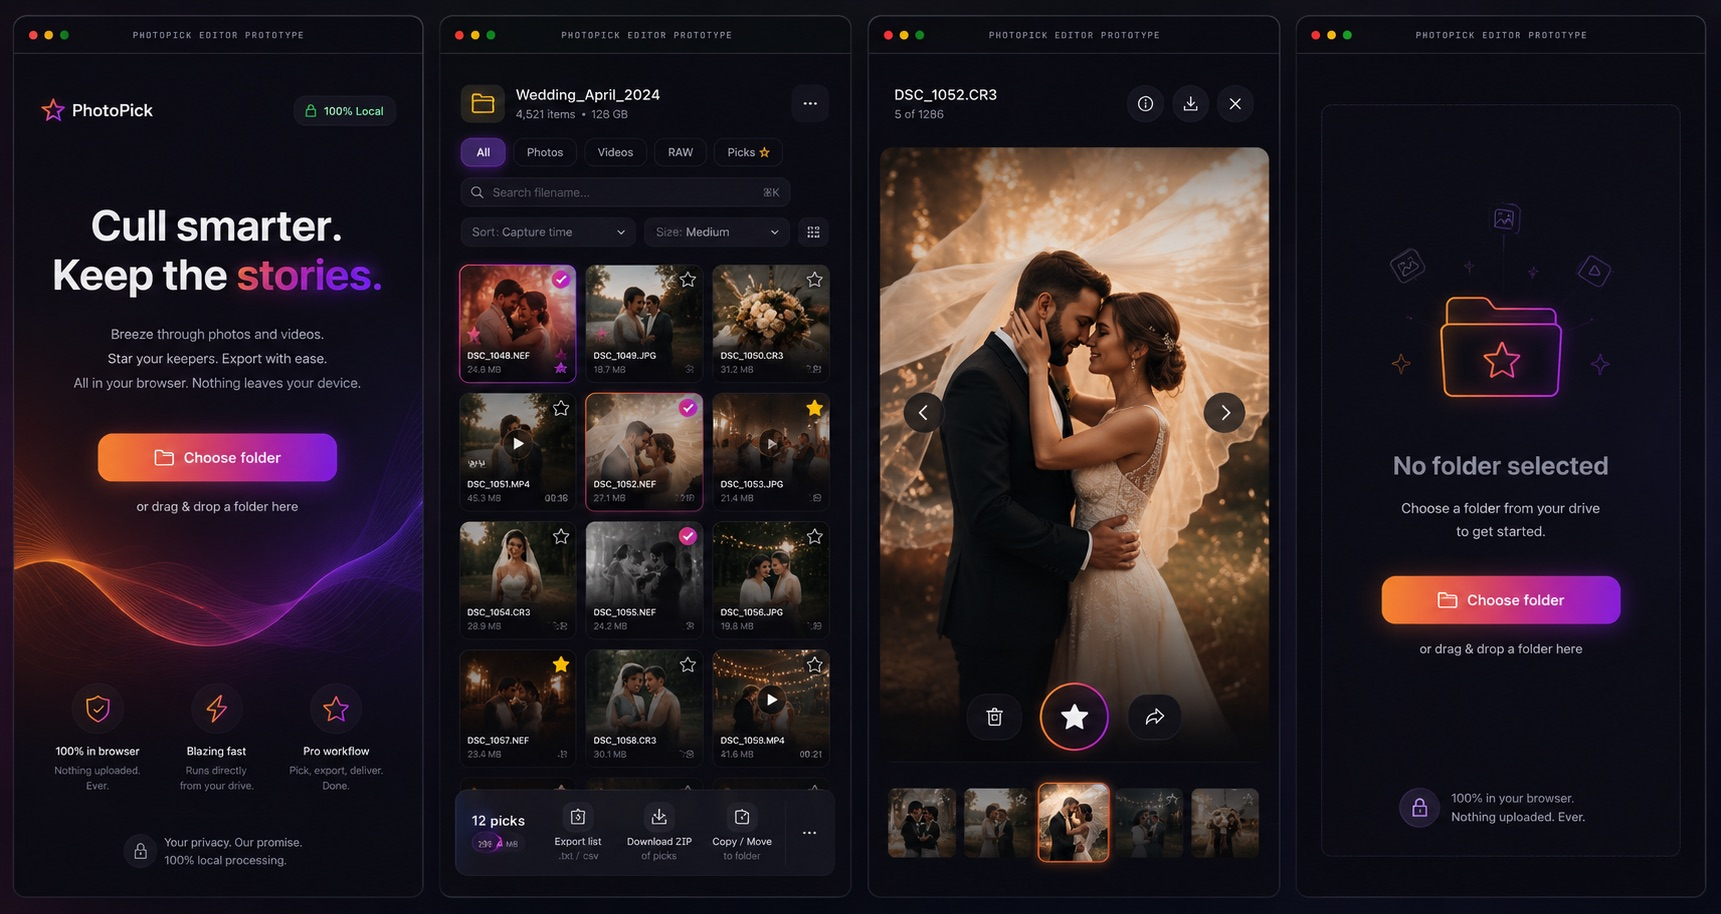
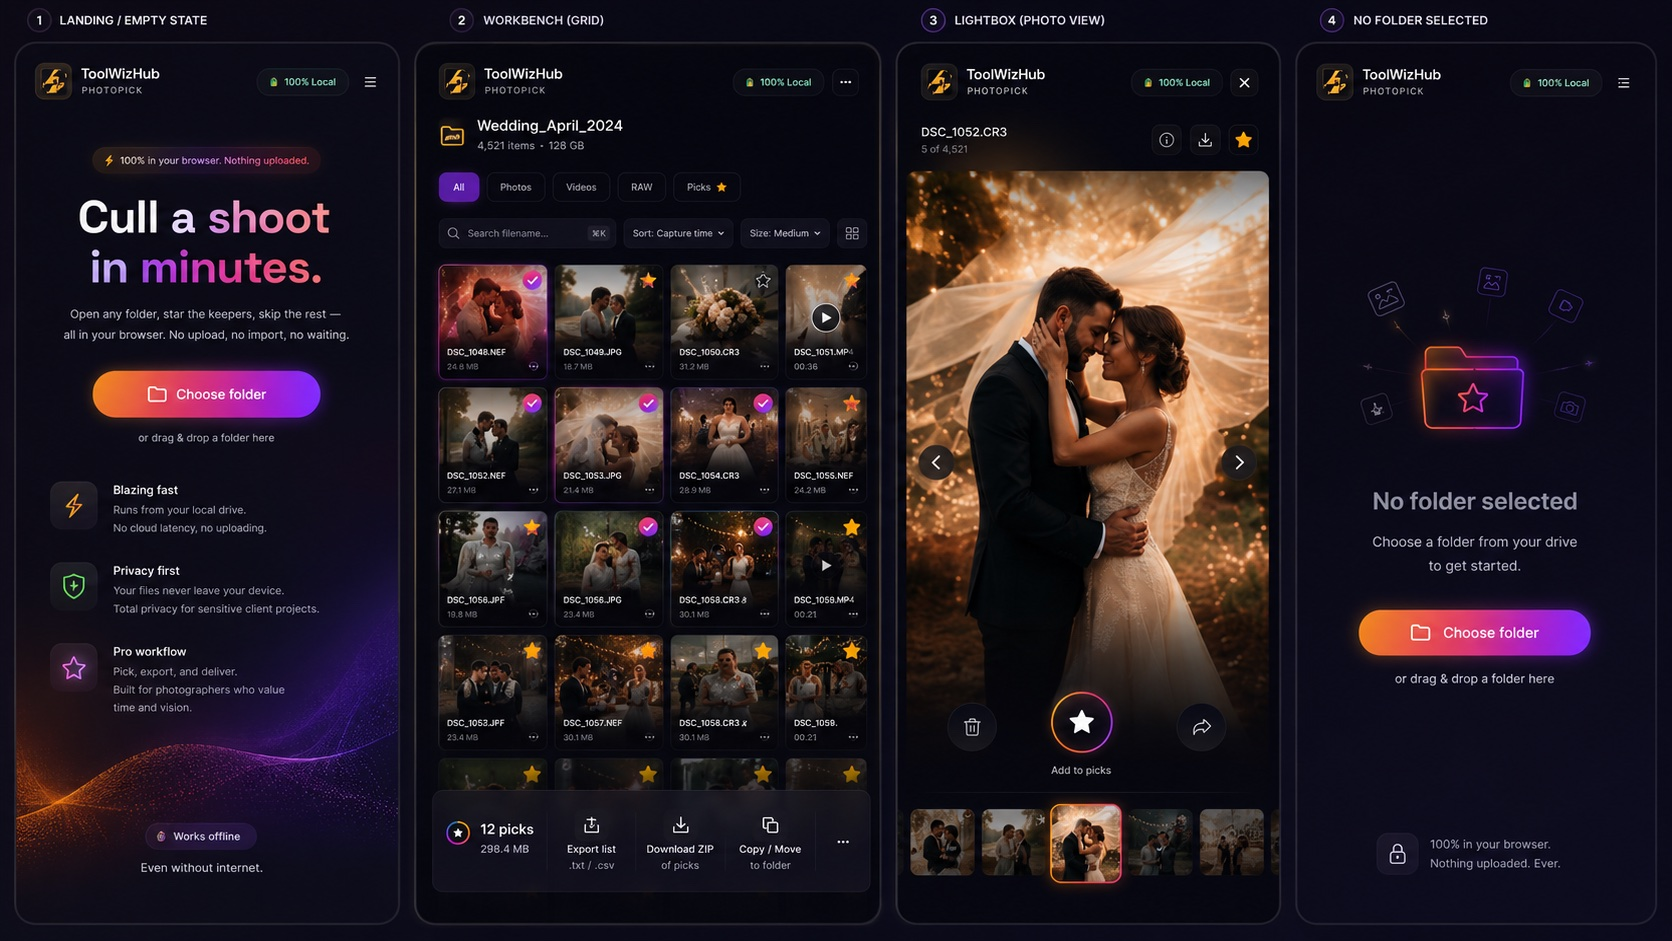
feat: richer home page — how-it-works, capabilities, formats, FAQ, CTA, GitHub links, hero tagline, new preview

diff --git a/index.html b/index.html
@@ -33,7 +33,7 @@
   <link rel="preconnect" href="https://fonts.googleapis.com" />
   <link rel="preconnect" href="https://fonts.gstatic.com" crossorigin />
   <link href="https://fonts.googleapis.com/css2?family=Inter:wght@400;500;600;700&family=Space+Grotesk:wght@500;600;700&family=JetBrains+Mono:wght@500;600;700&display=swap" rel="stylesheet" />
-  <link rel="stylesheet" href="css/styles.css?v=20260704m" />
+  <link rel="stylesheet" href="css/styles.css?v=20260704r" />
   <script>try { if (sessionStorage.getItem("photopick:splashed")) document.documentElement.classList.add("no-splash"); } catch (e) {}</script>
 </head>
 <body>
@@ -59,6 +59,9 @@
         <a class="nav__link" href="#how">How it works</a>
         <a class="nav__link" href="#security">Security</a>
         <span class="nav__pill">🔒 100% Local</span>
+        <a class="nav__icon" href="https://github.com/sorapallivenkatesh/toolwizhub-photopick" target="_blank" rel="noopener" title="View on GitHub" aria-label="View on GitHub">
+          <svg viewBox="0 0 24 24" width="18" height="18" fill="currentColor"><path d="M12 .5C5.37.5 0 5.87 0 12.5c0 5.3 3.44 9.8 8.21 11.39.6.11.82-.26.82-.58l-.01-2.05c-3.34.73-4.04-1.61-4.04-1.61-.55-1.39-1.34-1.76-1.34-1.76-1.09-.75.08-.73.08-.73 1.2.09 1.84 1.24 1.84 1.24 1.07 1.83 2.81 1.3 3.5.99.11-.78.42-1.3.76-1.6-2.67-.3-5.47-1.33-5.47-5.93 0-1.31.47-2.38 1.24-3.22-.13-.3-.54-1.52.11-3.18 0 0 1.01-.32 3.3 1.23a11.5 11.5 0 0 1 6 0c2.29-1.55 3.3-1.23 3.3-1.23.65 1.66.24 2.88.12 3.18.77.84 1.23 1.91 1.23 3.22 0 4.61-2.81 5.62-5.49 5.92.43.37.81 1.1.81 2.22l-.01 3.29c0 .32.21.7.82.58A12.01 12.01 0 0 0 24 12.5C24 5.87 18.63.5 12 .5z"/></svg>
+        </a>
       </nav>
     </header>
 
@@ -71,6 +74,7 @@
     <!-- ===== LANDING / WELCOME ===== -->
     <section id="picker">
       <section class="hero">
+        <span class="hero__eyebrow">✦ Find your best shots, fast.</span>
         <h1 class="hero__title">Cull a <span class="grad grad--warm">shoot</span><br>in <span class="grad grad--cool">minutes.</span></h1>
         <p class="hero__sub">Open any folder, star the keepers, skip the rest — all in your browser. No upload, no import, no waiting.</p>
         <div class="hero__cta">
@@ -103,8 +107,67 @@
       </section>
 
       <!-- product preview -->
-      <section class="preview" id="how">
-        <img class="preview__img" src="assets/preview.jpg?v=20260704m" alt="PhotoPick screens — welcome, gallery grid, lightbox, and empty state" width="1721" height="914" loading="lazy" />
+      <section class="preview">
+        <img class="preview__img" src="assets/preview.jpg?v=20260704r" alt="PhotoPick screens — landing, workbench grid, lightbox, and empty state" width="1672" height="941" loading="lazy" />
+      </section>
+
+      <!-- how it works -->
+      <section class="band" id="how">
+        <div class="band__head">
+          <span class="eyebrow">How it works</span>
+          <h2 class="band__title">Three steps. No import, no waiting.</h2>
+          <p class="band__sub">From memory card to shortlist in the time it used to take just to import.</p>
+        </div>
+        <div class="steps">
+          <div class="step"><span class="step__n">1</span><h3>Open a folder</h3><p>Point PhotoPick at any folder — an SD card, external drive, or your machine. It reads it locally, right in your browser.</p></div>
+          <div class="step"><span class="step__n">2</span><h3>Star your keepers</h3><p>Scroll the grid or open the lightbox and tap ★ (or press <kbd>S</kbd>) on the shots worth keeping. Filter by photos, video, RAW, or picks.</p></div>
+          <div class="step"><span class="step__n">3</span><h3>Export or deliver</h3><p>Save a filename list, download the picks as a ZIP, or copy &amp; move them straight into a new folder — all on your device.</p></div>
+        </div>
+      </section>
+
+      <!-- capabilities -->
+      <section class="band">
+        <div class="band__head">
+          <span class="eyebrow">Built for real shoots</span>
+          <h2 class="band__title">Everything you need to <span class="grad grad--warm">cull</span>, nothing you don’t.</h2>
+        </div>
+        <div class="caps">
+          <div class="cap"><span class="cap__ico">🖼️</span><h4>RAW &amp; HEIC previews</h4><p>Renders embedded previews from CR2/CR3, NEF, ARW, DNG and more — plus HEIC/HEIF decoded in-browser.</p></div>
+          <div class="cap"><span class="cap__ico">🎬</span><h4>Video thumbnails</h4><p>Grabs a frame from MP4, MOV, MKV and other clips so your video takes sit right beside the stills.</p></div>
+          <div class="cap"><span class="cap__ico">⚡</span><h4>Instant filter &amp; sort</h4><p>Jump between photos, video, RAW and picks; sort by capture time, name, size or date. Search by filename.</p></div>
+          <div class="cap"><span class="cap__ico">🔍</span><h4>Zoom &amp; inspect</h4><p>Pinch, scroll or double-click to zoom into the lightbox and check focus — with full EXIF on the side.</p></div>
+          <div class="cap"><span class="cap__ico">⌨️</span><h4>Keyboard-first</h4><p>Arrow through the grid, <kbd>Space</kbd>/<kbd>S</kbd> to pick, <kbd>Enter</kbd> to open, <kbd>+</kbd>/<kbd>−</kbd> to zoom. Cull without the mouse.</p></div>
+          <div class="cap"><span class="cap__ico">📦</span><h4>Export your way</h4><p>Filename list (.txt/.csv), a zipped bundle of picks, or a direct copy/move into a delivery folder.</p></div>
+        </div>
+      </section>
+
+      <!-- supported formats -->
+      <section class="band formats">
+        <div class="band__head">
+          <span class="eyebrow">Formats</span>
+          <h2 class="band__title">Opens what your camera shoots.</h2>
+        </div>
+        <div class="fmt">
+          <div class="fmt__row"><b>Photos</b><span>JPEG · PNG · WebP · HEIC · HEIF · TIFF · AVIF · GIF</span></div>
+          <div class="fmt__row"><b>RAW</b><span>CR2 · CR3 · NEF · ARW · DNG · RAF · ORF · RW2 · PEF · 3FR · SRW …</span></div>
+          <div class="fmt__row"><b>Video</b><span>MP4 · MOV · MKV · AVI · M4V · WebM · MTS · 3GP …</span></div>
+        </div>
+      </section>
+
+      <!-- FAQ -->
+      <section class="band" id="faq">
+        <div class="band__head">
+          <span class="eyebrow">FAQ</span>
+          <h2 class="band__title">Good questions.</h2>
+        </div>
+        <div class="faq">
+          <details class="faq__q"><summary>Is my data really private?</summary><p>Yes. PhotoPick is 100% client-side — there’s no server to send anything to. Your photos, filenames and picks never leave your device. <a href="/privacy/">Read the details →</a></p></details>
+          <details class="faq__q"><summary>Does it work offline?</summary><p>Once the page has loaded it needs no network. Browsing, starring, zipping and copy/move all happen locally, drive-to-drive.</p></details>
+          <details class="faq__q"><summary>Which browsers are supported?</summary><p>Any modern browser can browse and export. Copying or moving files into a folder uses the File System Access API (Chrome, Edge, Brave, Opera); elsewhere you get the same result via “Download picks (.zip).”</p></details>
+          <details class="faq__q"><summary>Will it change my original files?</summary><p>Never, unless you explicitly choose <b>Move</b> — the one action that deletes originals, and only after they’re safely copied and you’ve confirmed. Everything else is read-only.</p></details>
+          <details class="faq__q"><summary>How many photos can it handle?</summary><p>A single shoot of a few thousand files is smooth. Very large libraries (tens of thousands in one folder) get heavier — point it at an event folder rather than a whole archive.</p></details>
+          <details class="faq__q"><summary>Is it free?</summary><p>Completely. No account, no sign-up, no limits — it’s part of the free <a href="https://toolwizhub.com" target="_blank" rel="noopener">ToolWizHub</a> toolkit, and it’s <a href="https://github.com/sorapallivenkatesh/toolwizhub-photopick" target="_blank" rel="noopener">open source on GitHub</a>. Spot a bug? <a href="https://github.com/sorapallivenkatesh/toolwizhub-photopick/issues" target="_blank" rel="noopener">Open an issue</a>.</p></details>
+        </div>
       </section>
 
       <!-- security / privacy -->
@@ -123,6 +186,19 @@
         <a class="security__link" href="/privacy/">Read the full privacy &amp; security details
           <svg viewBox="0 0 24 24" width="15" height="15" fill="none" stroke="currentColor" stroke-width="2" stroke-linecap="round" stroke-linejoin="round"><line x1="5" y1="12" x2="19" y2="12"/><polyline points="12 5 19 12 12 19"/></svg>
         </a>
+      </section>
+
+      <!-- closing CTA -->
+      <section class="cta">
+        <div class="cta__card">
+          <h2 class="cta__title">Ready to <span class="grad grad--cool">cull your shoot?</span></h2>
+          <p class="cta__sub">Open a folder and start starring — nothing to install, nothing to upload.</p>
+          <button class="btn btn--primary btn--lg" id="pick-btn-2">
+            <svg viewBox="0 0 24 24" width="18" height="18" fill="none" stroke="currentColor" stroke-width="2" stroke-linecap="round" stroke-linejoin="round"><path d="M3 7a2 2 0 0 1 2-2h4l2 2h8a2 2 0 0 1 2 2v8a2 2 0 0 1-2 2H5a2 2 0 0 1-2-2z"/></svg>
+            Choose folder
+          </button>
+          <p class="cta__note">🔒 100% in your browser · free · no account</p>
+        </div>
       </section>
     </section>
 
@@ -251,9 +327,17 @@
       <span>More free tools at</span>
       <img src="assets/logo-horizontal.webp" alt="ToolWizHub" />
     </a>
-    <span class="app-footer__copy">© <span id="year">2026</span> ToolWizHub · <a href="/privacy/">Privacy</a> · 100% local, no tracking.</span>
+    <nav class="app-footer__links">
+      <a href="https://github.com/sorapallivenkatesh/toolwizhub-photopick" target="_blank" rel="noopener" class="app-footer__gh">
+        <svg viewBox="0 0 24 24" width="16" height="16" fill="currentColor"><path d="M12 .5C5.37.5 0 5.87 0 12.5c0 5.3 3.44 9.8 8.21 11.39.6.11.82-.26.82-.58l-.01-2.05c-3.34.73-4.04-1.61-4.04-1.61-.55-1.39-1.34-1.76-1.34-1.76-1.09-.75.08-.73.08-.73 1.2.09 1.84 1.24 1.84 1.24 1.07 1.83 2.81 1.3 3.5.99.11-.78.42-1.3.76-1.6-2.67-.3-5.47-1.33-5.47-5.93 0-1.31.47-2.38 1.24-3.22-.13-.3-.54-1.52.11-3.18 0 0 1.01-.32 3.3 1.23a11.5 11.5 0 0 1 6 0c2.29-1.55 3.3-1.23 3.3-1.23.65 1.66.24 2.88.12 3.18.77.84 1.23 1.91 1.23 3.22 0 4.61-2.81 5.62-5.49 5.92.43.37.81 1.1.81 2.22l-.01 3.29c0 .32.21.7.82.58A12.01 12.01 0 0 0 24 12.5C24 5.87 18.63.5 12 .5z"/></svg>
+        GitHub
+      </a>
+      <a href="https://github.com/sorapallivenkatesh/toolwizhub-photopick/issues" target="_blank" rel="noopener">Report an issue</a>
+      <a href="/privacy/">Privacy</a>
+    </nav>
+    <span class="app-footer__copy">© <span id="year">2026</span> ToolWizHub · 100% local, no tracking.</span>
   </footer>
 
-  <script type="module" src="js/app.js?v=20260704m"></script>
+  <script type="module" src="js/app.js?v=20260704r"></script>
 </body>
 </html>

diff --git a/css/styles.css b/css/styles.css
@@ -84,7 +84,8 @@ button, select, input, textarea { font-family: inherit; }
 /* ===== hero ===== */
 .grad--warm { background: linear-gradient(100deg, #a78bfa, #d946ef); -webkit-background-clip: text; background-clip: text; color: transparent; }
 .grad--cool { background: linear-gradient(100deg, #d946ef, #ec4899 60%, #fb7185); -webkit-background-clip: text; background-clip: text; color: transparent; }
-.hero { text-align: center; padding: clamp(30px,6vw,80px) 0 20px; position: relative; }
+.hero { text-align: center; padding: clamp(24px,5vw,60px) 0 20px; position: relative; }
+.hero__eyebrow { display: inline-flex; align-items: center; gap: 8px; font: 600 13px var(--sans); color: #d8c7ff; padding: 7px 16px; border-radius: var(--r-pill); background: rgba(139,92,246,.12); border: 1px solid rgba(139,92,246,.3); margin-bottom: 24px; }
 .hero::before { content: ""; position: absolute; inset: -10% -20% 30%; z-index: -1; pointer-events: none;
   background: radial-gradient(50% 60% at 24% 40%, rgba(139,92,246,.18), transparent 70%),
     radial-gradient(50% 60% at 80% 45%, rgba(236,72,153,.2), transparent 70%); }
@@ -110,6 +111,61 @@ button, select, input, textarea { font-family: inherit; }
 .preview { max-width: 1120px; margin: 60px auto 20px; }
 .preview__img { display: block; width: 100%; height: auto; border-radius: 18px; border: 1px solid var(--line-strong);
   box-shadow: 0 40px 90px rgba(0,0,0,.55), 0 0 0 1px rgba(139,92,246,.08); }
+
+/* ===== content bands (how it works, capabilities, formats, faq) ===== */
+.band { max-width: 1080px; margin: 88px auto 0; }
+.band__head { text-align: center; max-width: 680px; margin: 0 auto 40px; }
+.eyebrow { display: inline-block; font: 600 11px var(--mono); letter-spacing: .2em; text-transform: uppercase; color: #c4b5fd;
+  padding: 6px 14px; border-radius: var(--r-pill); background: rgba(139,92,246,.12); border: 1px solid rgba(139,92,246,.3); margin-bottom: 18px; }
+.band__title { font-family: var(--display); font-weight: 700; font-size: clamp(24px,3.6vw,36px); letter-spacing: -.6px; line-height: 1.12; }
+.band__sub { margin-top: 14px; color: var(--soft); font-size: clamp(14px,1.7vw,16px); }
+
+/* steps */
+.steps { display: grid; grid-template-columns: repeat(3, 1fr); gap: 18px; }
+.step { position: relative; background: var(--glass); border: 1px solid var(--line); border-radius: var(--r); padding: 26px 24px; transition: border-color .2s, transform .2s var(--ease); }
+.step:hover { border-color: var(--line-strong); transform: translateY(-3px); }
+.step__n { display: grid; place-items: center; width: 40px; height: 40px; border-radius: 12px; background: var(--grad); color: #fff; font: 700 17px var(--display); box-shadow: 0 6px 16px rgba(139,92,246,.4); margin-bottom: 16px; }
+.step h3 { font-family: var(--display); font-size: 18px; margin-bottom: 8px; }
+.step p { color: var(--muted); font-size: 14px; line-height: 1.65; }
+
+/* capabilities */
+.caps { display: grid; grid-template-columns: repeat(3, 1fr); gap: 16px; }
+.cap { background: var(--glass); border: 1px solid var(--line); border-radius: var(--r); padding: 24px 22px; transition: border-color .2s, transform .2s var(--ease); }
+.cap:hover { border-color: var(--line-strong); transform: translateY(-3px); }
+.cap__ico { display: inline-grid; place-items: center; width: 44px; height: 44px; border-radius: 12px; font-size: 20px; background: rgba(139,92,246,.14); margin-bottom: 14px; }
+.cap h4 { font-family: var(--display); font-size: 16px; margin-bottom: 7px; }
+.cap p { color: var(--muted); font-size: 13.5px; line-height: 1.6; }
+
+/* supported formats */
+.formats { max-width: 900px; }
+.fmt { display: flex; flex-direction: column; gap: 10px; }
+.fmt__row { display: flex; align-items: center; gap: 16px; background: var(--glass); border: 1px solid var(--line); border-radius: 14px; padding: 16px 20px; }
+.fmt__row b { flex: 0 0 72px; font: 600 12px var(--mono); letter-spacing: .1em; text-transform: uppercase; color: #c4b5fd; }
+.fmt__row span { color: var(--soft); font: 500 13.5px var(--mono); line-height: 1.6; }
+
+/* faq */
+.faq { max-width: 780px; margin: 0 auto; display: flex; flex-direction: column; gap: 10px; }
+.faq__q { background: var(--glass); border: 1px solid var(--line); border-radius: 14px; padding: 4px 20px; transition: border-color .2s; }
+.faq__q[open] { border-color: var(--line-strong); }
+.faq__q summary { list-style: none; cursor: pointer; padding: 16px 0; font-family: var(--display); font-weight: 600; font-size: 15.5px; color: var(--text); display: flex; align-items: center; justify-content: space-between; gap: 12px; }
+.faq__q summary::-webkit-details-marker { display: none; }
+.faq__q summary::after { content: "+"; font-family: var(--sans); font-size: 22px; font-weight: 400; color: var(--muted); transition: transform .2s var(--ease); line-height: 1; }
+.faq__q[open] summary::after { transform: rotate(45deg); color: #c4b5fd; }
+.faq__q p { color: var(--soft); font-size: 14px; line-height: 1.7; padding: 0 0 18px; margin: 0; }
+.faq__q a { color: #d8c7ff; text-decoration: underline; text-underline-offset: 3px; }
+
+/* closing CTA */
+.cta { max-width: 1080px; margin: 88px auto 20px; }
+.cta__card { position: relative; overflow: hidden; text-align: center; padding: clamp(40px,6vw,68px) 24px; border-radius: 24px; border: 1px solid var(--line-strong);
+  background: radial-gradient(120% 140% at 50% 0%, rgba(139,92,246,.22), transparent 60%), linear-gradient(180deg, rgba(20,18,32,.7), rgba(12,11,20,.7)); }
+.cta__title { font-family: var(--display); font-weight: 700; font-size: clamp(26px,4vw,42px); letter-spacing: -.6px; }
+.cta__sub { max-width: 480px; margin: 14px auto 26px; color: var(--soft); font-size: clamp(14px,1.8vw,17px); }
+.cta__note { margin-top: 15px; color: var(--muted); font-size: 13px; }
+
+kbd { font: 600 11.5px var(--mono); background: var(--glass-2); border: 1px solid var(--line-strong); border-bottom-width: 2px; border-radius: 6px; padding: 1px 6px; color: var(--text); }
+
+@media (max-width: 900px) { .steps, .caps { grid-template-columns: 1fr; max-width: 560px; margin-left: auto; margin-right: auto; } }
+@media (max-width: 620px) { .fmt__row { flex-direction: column; align-items: flex-start; gap: 6px; } }
 
 /* ===== security / privacy section ===== */
 .security { max-width: 1080px; margin: 88px auto 20px; text-align: center; }
@@ -386,6 +442,10 @@ body.in-workbench .main { max-width: none; padding: 0; }
 .app-footer__brand span { font-size: 12px; font-weight: 600; color: var(--muted); }
 .app-footer__copy { font-size: 12px; color: var(--faint); }
 .app-footer__copy a { color: #d8c7ff; }
+.app-footer__links { display: inline-flex; align-items: center; gap: 20px; flex-wrap: wrap; }
+.app-footer__links a { display: inline-flex; align-items: center; gap: 7px; font-size: 12.5px; font-weight: 500; color: var(--muted); transition: color .15s; }
+.app-footer__links a:hover { color: var(--text); }
+.app-footer__gh svg { opacity: .9; }
 
 /* ===== legal / privacy prose ===== */
 .legal__hero { max-width: 820px; margin: 0 auto; padding: clamp(24px,5vw,56px) clamp(20px,5vw,56px) 8px; text-align: center; }

diff --git a/privacy/index.html b/privacy/index.html
@@ -17,7 +17,7 @@
   <link rel="preconnect" href="https://fonts.googleapis.com" />
   <link rel="preconnect" href="https://fonts.gstatic.com" crossorigin />
   <link href="https://fonts.googleapis.com/css2?family=Inter:wght@400;500;600;700&family=Space+Grotesk:wght@500;600;700&family=JetBrains+Mono:wght@500;600;700&display=swap" rel="stylesheet" />
-  <link rel="stylesheet" href="/css/styles.css?v=20260704m" />
+  <link rel="stylesheet" href="/css/styles.css?v=20260704r" />
 </head>
 <body>
   <main class="main">